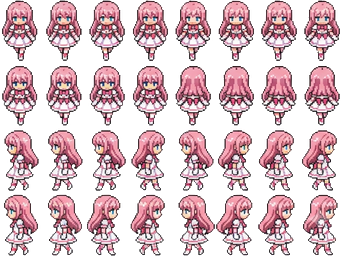
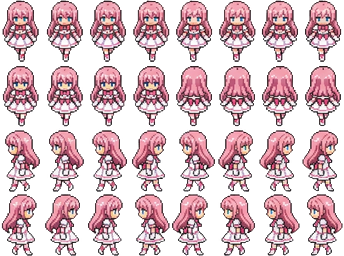
左右移動でキャラが「きょろきょろ」するのを修正
元画像の横向きの行は、8コマの中に向きの違うコマが混ざっていた。
各コマの目の左右位置を測って確認した結果:

  右の行: 左 左 左 右 左 右 右 右
  左の行: 左 左 右 右 左 右 右 右

8コマそのまま回していたため、歩くたびに顔の向きが反転していた。

対応:
- 向きの揃っている4コマだけを使う (右/左とも 3,5,6,7)
- 「左」の行は左を向いたコマが3つしかなく脚の動きもほぼ同じで歩いて見えないため、
  シート生成時に「右」の行を左右反転して使う (--mirror-row 3=2 を追加)

反転は元画像のマス単位で行う。キャラはマス内でほぼ中央に立っているため、
マスの中心を軸にすれば体の中心線がずれない。切り詰めたあとの矩形を軸にすると、
後ろに流れる髪の分だけ中心が 5〜7px ずれて、振り向いたときにキャラが横に飛ぶ。

Claude-Session: https://claude.ai/code/session_01LGhp2HQTh559fyKZ2NNUVj

diff --git a/src/config.js b/src/config.js
@@ -13,10 +13,15 @@ const CONFIG = {
   rowOf: { down: 0, up: 1, right: 2, left: 3 },
 
   // 向きごとに使うコマ番号 (0 始まり)。指定しない向きは全8コマを順に使う。
-  // 素材の「上」の行は 1〜4コマ目が正面向き、5〜8コマ目が背面向きになっていて
-  // そのまま8コマ回すと歩くたびに顔が見えてしまう。背面向きの4コマだけを使う。
+  // 素材の行によっては向きの揃っていないコマが混ざっているため、揃っているコマだけを使う。
+  //   上: 1〜4コマ目が正面向き、5〜8コマ目が背面向き → 背面の4コマだけ使う
+  //   右: 1,2,3,5コマ目が左を向いている → 右を向いている4コマだけ使う
+  //   左: assets/character.png 生成時に「右」の行を左右反転して作っているので、
+  //       右と同じコマ番号を使う (詳細は README)
   frameSequence: {
     up: [4, 5, 6, 7],
+    right: [3, 5, 6, 7],
+    left: [3, 5, 6, 7],
   },
 
   // 立ち止まっているときに表示する、シーケンス内の位置。

diff --git a/tools/slice_reference_sheet.py b/tools/slice_reference_sheet.py
@@ -205,6 +205,8 @@ def main() -> None:
                         help="罫線を確実に除くため内側に詰めるピクセル数 (既定: 4)")
     parser.add_argument("--frame-height", type=int,
                         help="1コマの高さをこの値に縮小する (縦横比は維持)")
+    parser.add_argument("--mirror-row", action="append", default=[], metavar="DST=SRC",
+                        help="DST 行を SRC 行の左右反転で置き換える (例: --mirror-row 3=2)")
     parser.add_argument("--dark-level", type=int, default=128,
                         help="罫線とみなす明るさの上限 (既定: 128)")
     parser.add_argument("--coverage", type=float, default=0.5,
@@ -219,6 +221,20 @@ def main() -> None:
     boxes = cell_boxes(image, args)
 
     cells = [image.crop(box) for box in boxes]
+
+    # 反転は「マスごと」に行う。キャラは元画像のマス内でほぼ中央に立っているので、
+    # マスの中心を軸に反転すれば体の中心線がずれない。
+    # (切り詰めたあとの矩形を軸にすると、後ろに流れる髪の分だけ中心がずれる)
+    for mapping in args.mirror_row:
+        try:
+            dst, src = (int(part) for part in mapping.split("=", 1))
+        except ValueError:
+            sys.exit(f"--mirror-row の書式が不正です: {mapping} (例: 3=2)")
+        if not (0 <= dst < ROWS and 0 <= src < ROWS):
+            sys.exit(f"--mirror-row の行番号が範囲外です: {mapping} (0〜{ROWS - 1})")
+        for col in range(COLS):
+            cells[dst * COLS + col] = cells[src * COLS + col].transpose(Image.FLIP_LEFT_RIGHT)
+
     if not args.keep_background:
         results = [make_background_transparent(cell, args.tolerance) for cell in cells]
         cells = [cell for cell, _ in results]

diff --git a/README.md b/README.md
@@ -28,7 +28,8 @@ python3 -m http.server 8000
 
 ```sh
 pip install pillow
-python3 tools/slice_reference_sheet.py chara.png -o assets/character.png --frame-height 64
+python3 tools/slice_reference_sheet.py chara.png -o assets/character.png \
+    --frame-height 64 --mirror-row 3=2
 # → 344x256 / 1コマ 43x64
 ```
 
@@ -53,23 +54,45 @@ python3 tools/slice_reference_sheet.py chara.png -o assets/character.png --frame
       --x0 45 --y0 30 --cell-w 117 --cell-h 133
   ```
 
-### 「上」の行について
+### 元画像の向きの不揃いについて
 
-元画像の「上」の行は、**1〜4コマ目が正面向き (顔が見える)、5〜8コマ目が背面向き**
-になっています。8コマをそのまま回すと、上に歩くたびに顔がこちらを向いてしまいます。
+**「下」の行以外は、8コマの中に向きの違うコマが混ざっています。**
+そのまま8コマ回すと、歩くたびにキャラが「きょろきょろ」します。
 
-素材側を直すのが本筋ですが、暫定対応としてこの行は背面向きの4コマだけを使う設定に
-しています (`src/config.js`)。
+各コマの目の位置を測って調べた結果は次のとおりです
+(体の中心を 0 とした目の左右位置。プラスが右向き)。
+
+| 行 | 1 | 2 | 3 | 4 | 5 | 6 | 7 | 8 |
+| --- | --- | --- | --- | --- | --- | --- | --- | --- |
+| 下 | 正面 | 正面 | 正面 | 正面 | 正面 | 正面 | 正面 | 正面 |
+| 上 | 正面 | 正面 | 正面 | 正面 | 背面 | 背面 | 背面 | 背面 |
+| 右 | 左 | 左 | 左 | **右** | 左 | **右** | **右** | **右** |
+| 左 | 左 | 左 | 右 | 右 | 左 | 右 | 右 | 右 |
+
+素材側を描き直すのが本筋ですが、現状の素材でも自然に歩けるよう次の対応をしています。
+
+**1. 向きが揃っているコマだけを使う** (`src/config.js`)
 
 ```js
 frameSequence: {
-  up: [4, 5, 6, 7],
+  up:    [4, 5, 6, 7],   // 背面向きの4コマ
+  right: [3, 5, 6, 7],   // 右を向いている4コマ
+  left:  [3, 5, 6, 7],
 },
 ```
 
-素材を「上」の行も8コマすべて背面向きに描き直したら、この設定を消せば
-8コマで再生されます。他の行 (下・右・左) は全8コマとも向きが揃っているため
-指定していません。
+**2.「左」の行は「右」の行の左右反転で作る**
+
+「左」の行は左を向いているコマが3つしかなく、しかも脚の動きがほとんど同じで
+歩いて見えません。そこでシート生成時に「右」の行を反転して「左」の行に使っています
+(`--mirror-row 3=2`)。左右で同じ動きになるので、向きを変えても違和感がありません。
+
+反転は**元画像のマス単位**で行っています。キャラは元画像のマス内でほぼ中央に
+立っているため、マスの中心を軸にすれば体の中心線がずれません
+(切り詰めたあとの矩形を軸にすると、後ろに流れる髪の分だけ中心が 5〜7px ずれます)。
+
+素材を全コマ向きの揃ったものに描き直したら、`frameSequence` の該当行を消し、
+`--mirror-row` を外せば8コマで再生されます。
 
 ## 設定
 
@@ -124,8 +147,11 @@ Chromium (Playwright) で以下を確認済みです。
 
 - 4方向の移動と向きの切り替え
 - 歩行アニメの循環と、停止時に `idleIndex` の位置へ戻ること
-  - 下 / 右 / 左: `1 2 3 4 5 6 7 0 …` (全8コマ)、停止時は 0
-  - 上: `5 6 7 4 5 6 …` (背面向きの4コマのみ)、停止時は 4
+  - 下: `1 2 3 4 5 6 7 0 …` (全8コマ)、停止時は 0
+  - 上: `5 6 7 4 …` (背面向きの4コマ)、停止時は 4
+  - 右 / 左: `5 6 7 3 …` (向きの揃った4コマ)、停止時は 3
+- 使用コマの向きが揃っていること (目の左右位置が 右 +8.3〜+8.8 / 左 -8.3〜-8.8)
+- 左右反転による足元のズレが 1px 以内であること
 - 歩行中に向きを変えても、コマ番号がシーケンスの範囲外にならないこと
 - 斜め移動の速度が正規化されている (0.3秒で約 28px ≒ 90px/秒)
 - 壁に向かって歩くと壁の手前で止まる
